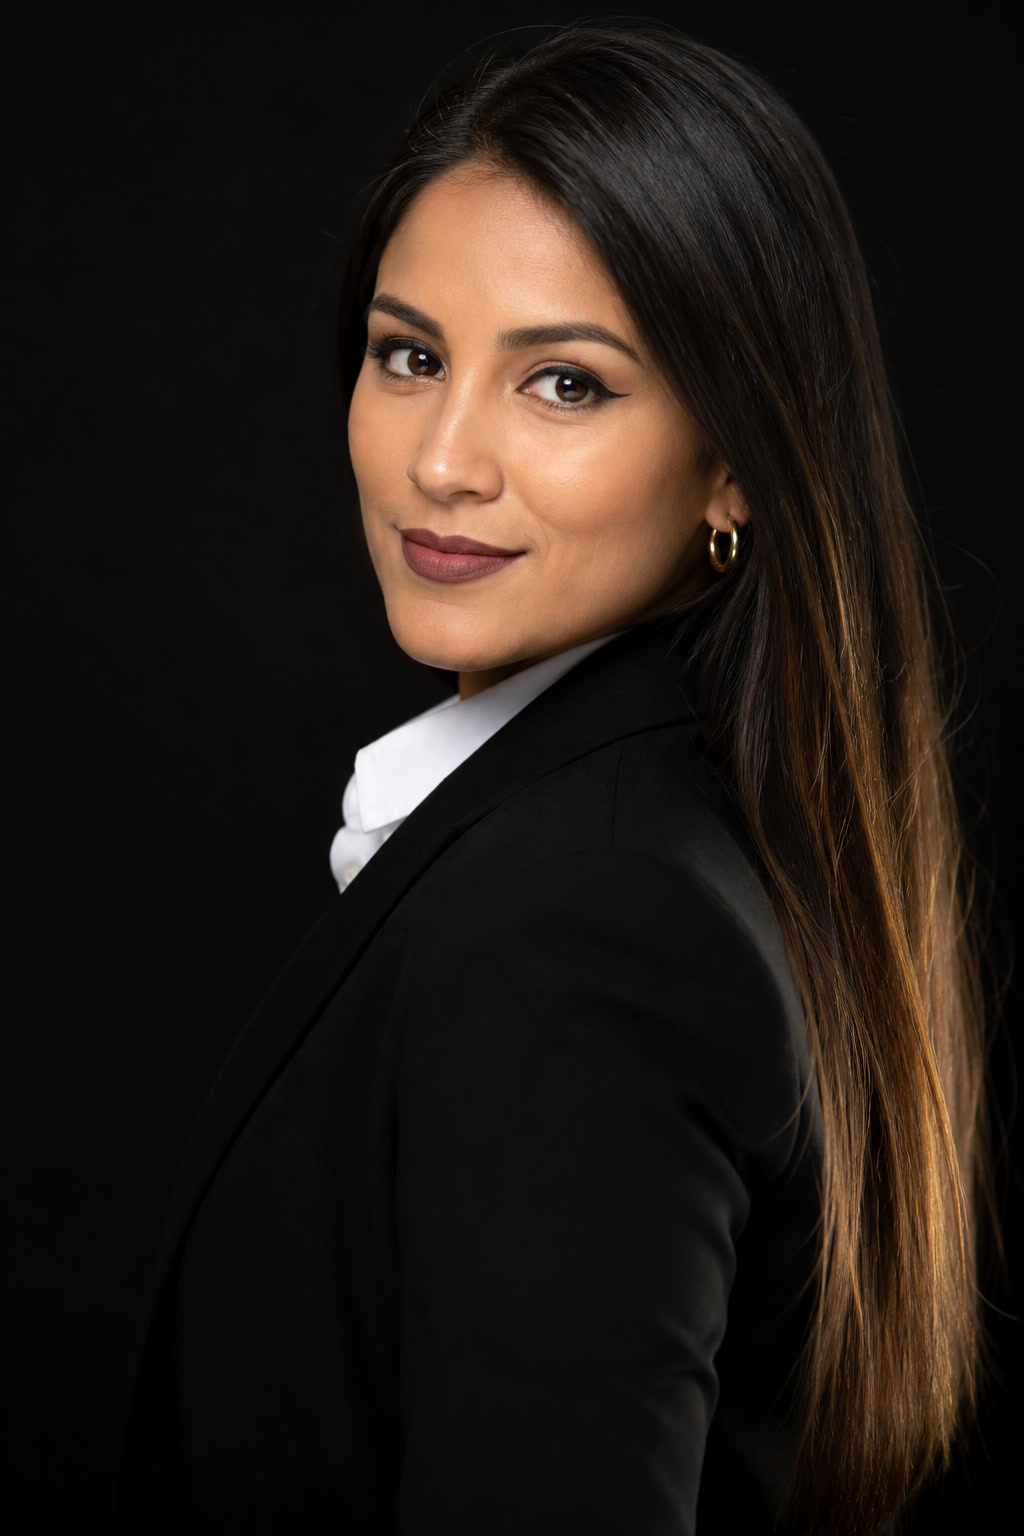
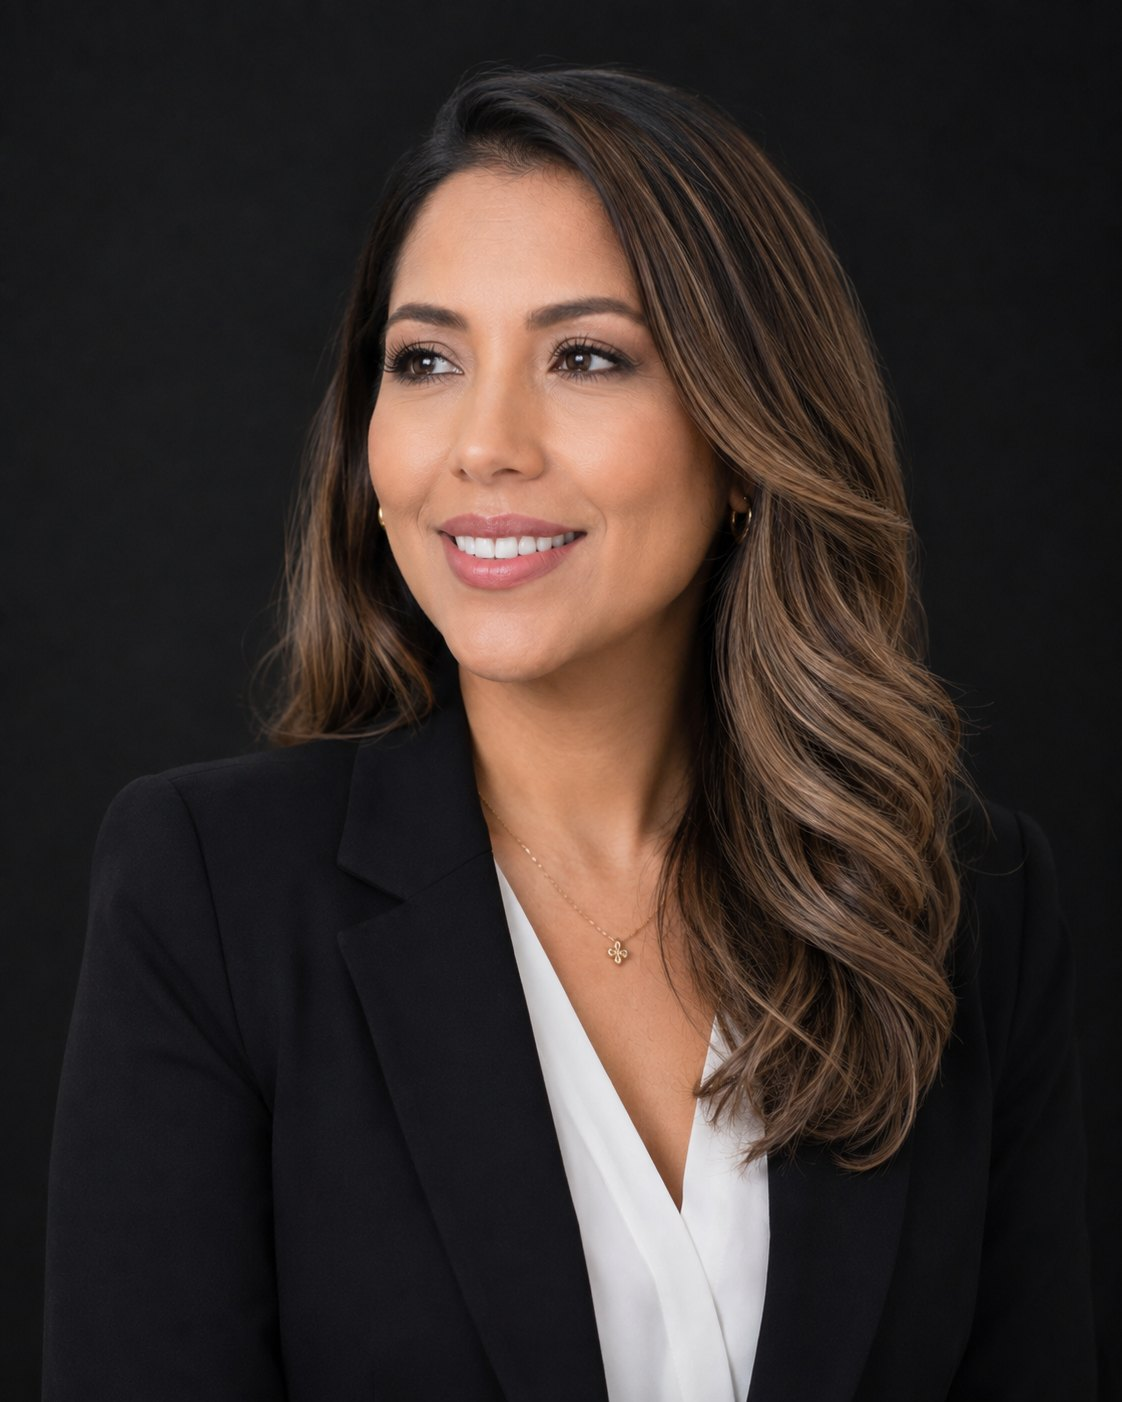
Use the new Esme portraits in the hero and About sections.
The photos from main are saved as optimized JPEGs so the existing image paths keep working without shipping oversized PNGs.

diff --git a/styles.css b/styles.css
@@ -522,7 +522,7 @@ ul {
   width: 100%;
   height: 100%;
   object-fit: cover;
-  object-position: 62% center;
+  object-position: 50% 18%;
 }
 
 .hero-visual::before {
@@ -595,6 +595,7 @@ ul {
   width: 100%;
   aspect-ratio: 4 / 5;
   object-fit: cover;
+  object-position: 50% 12%;
 }
 
 .about-portrait::after {
